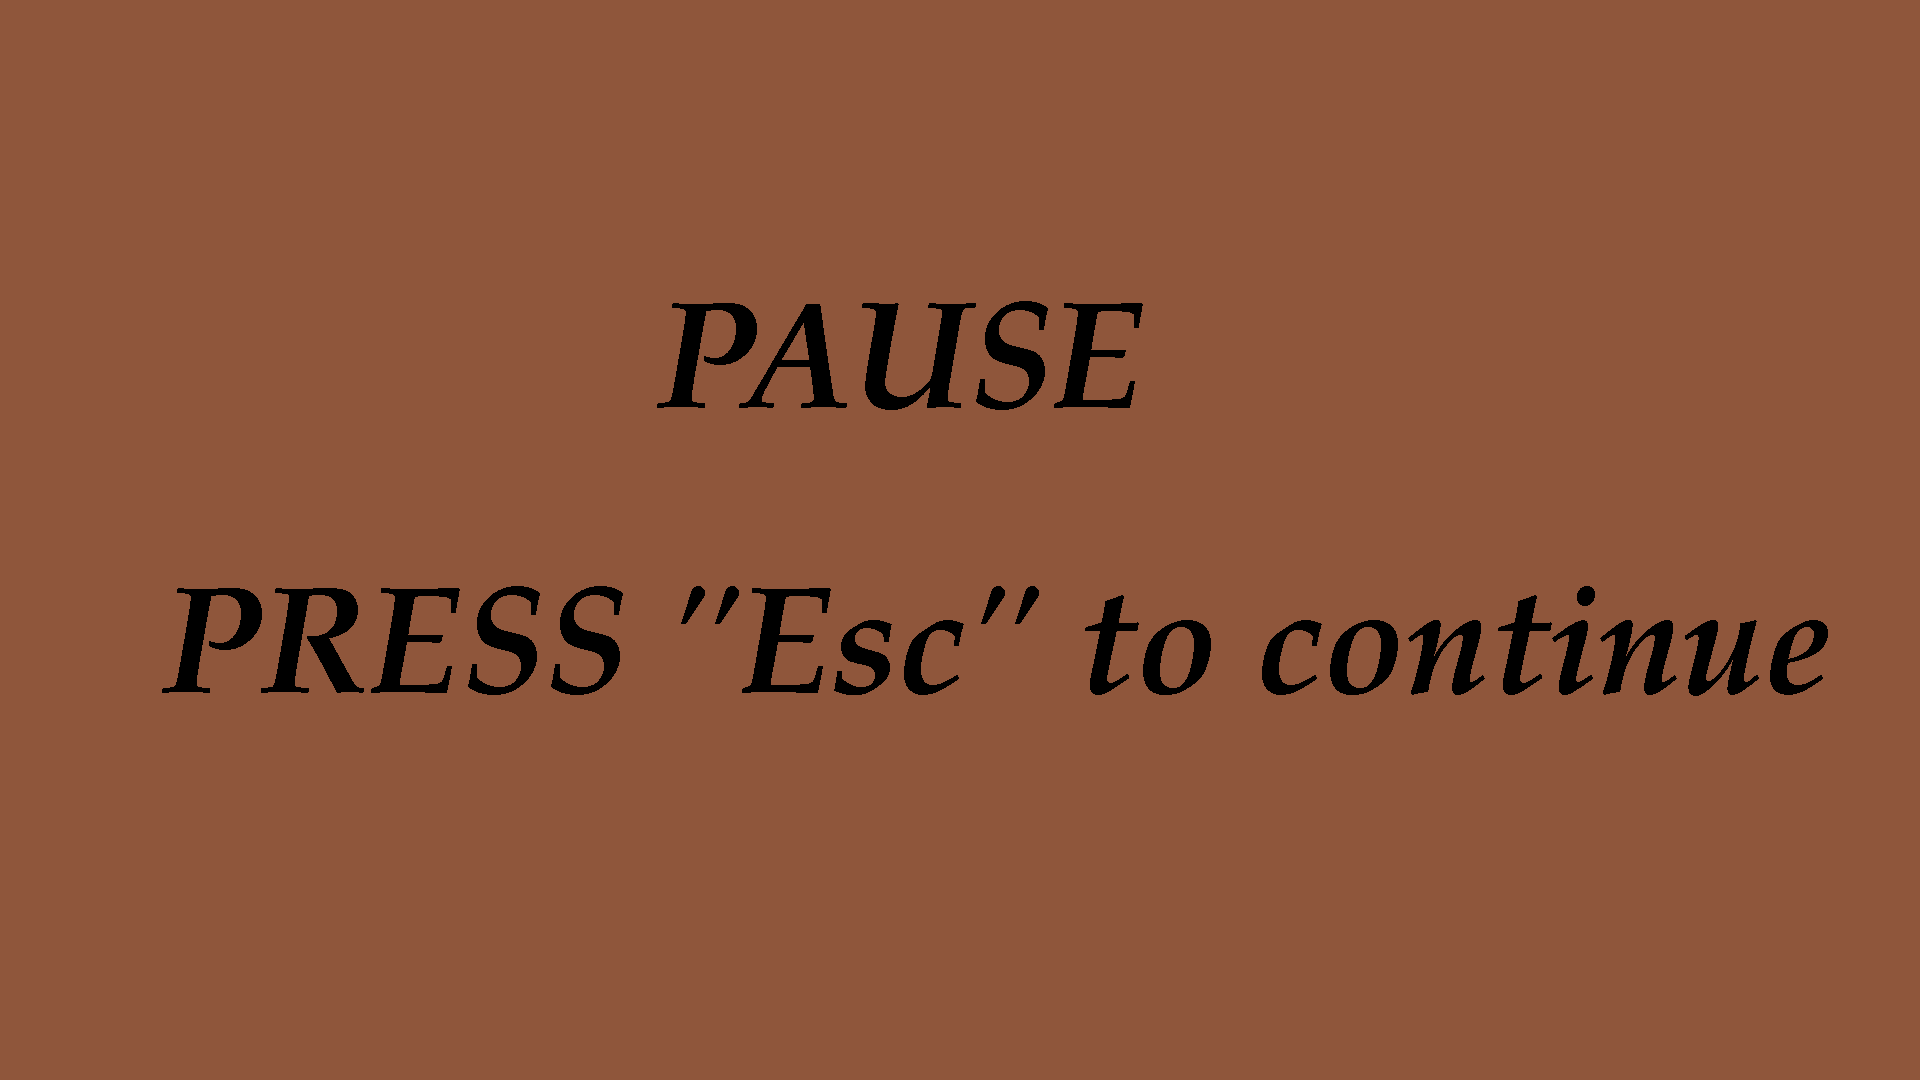
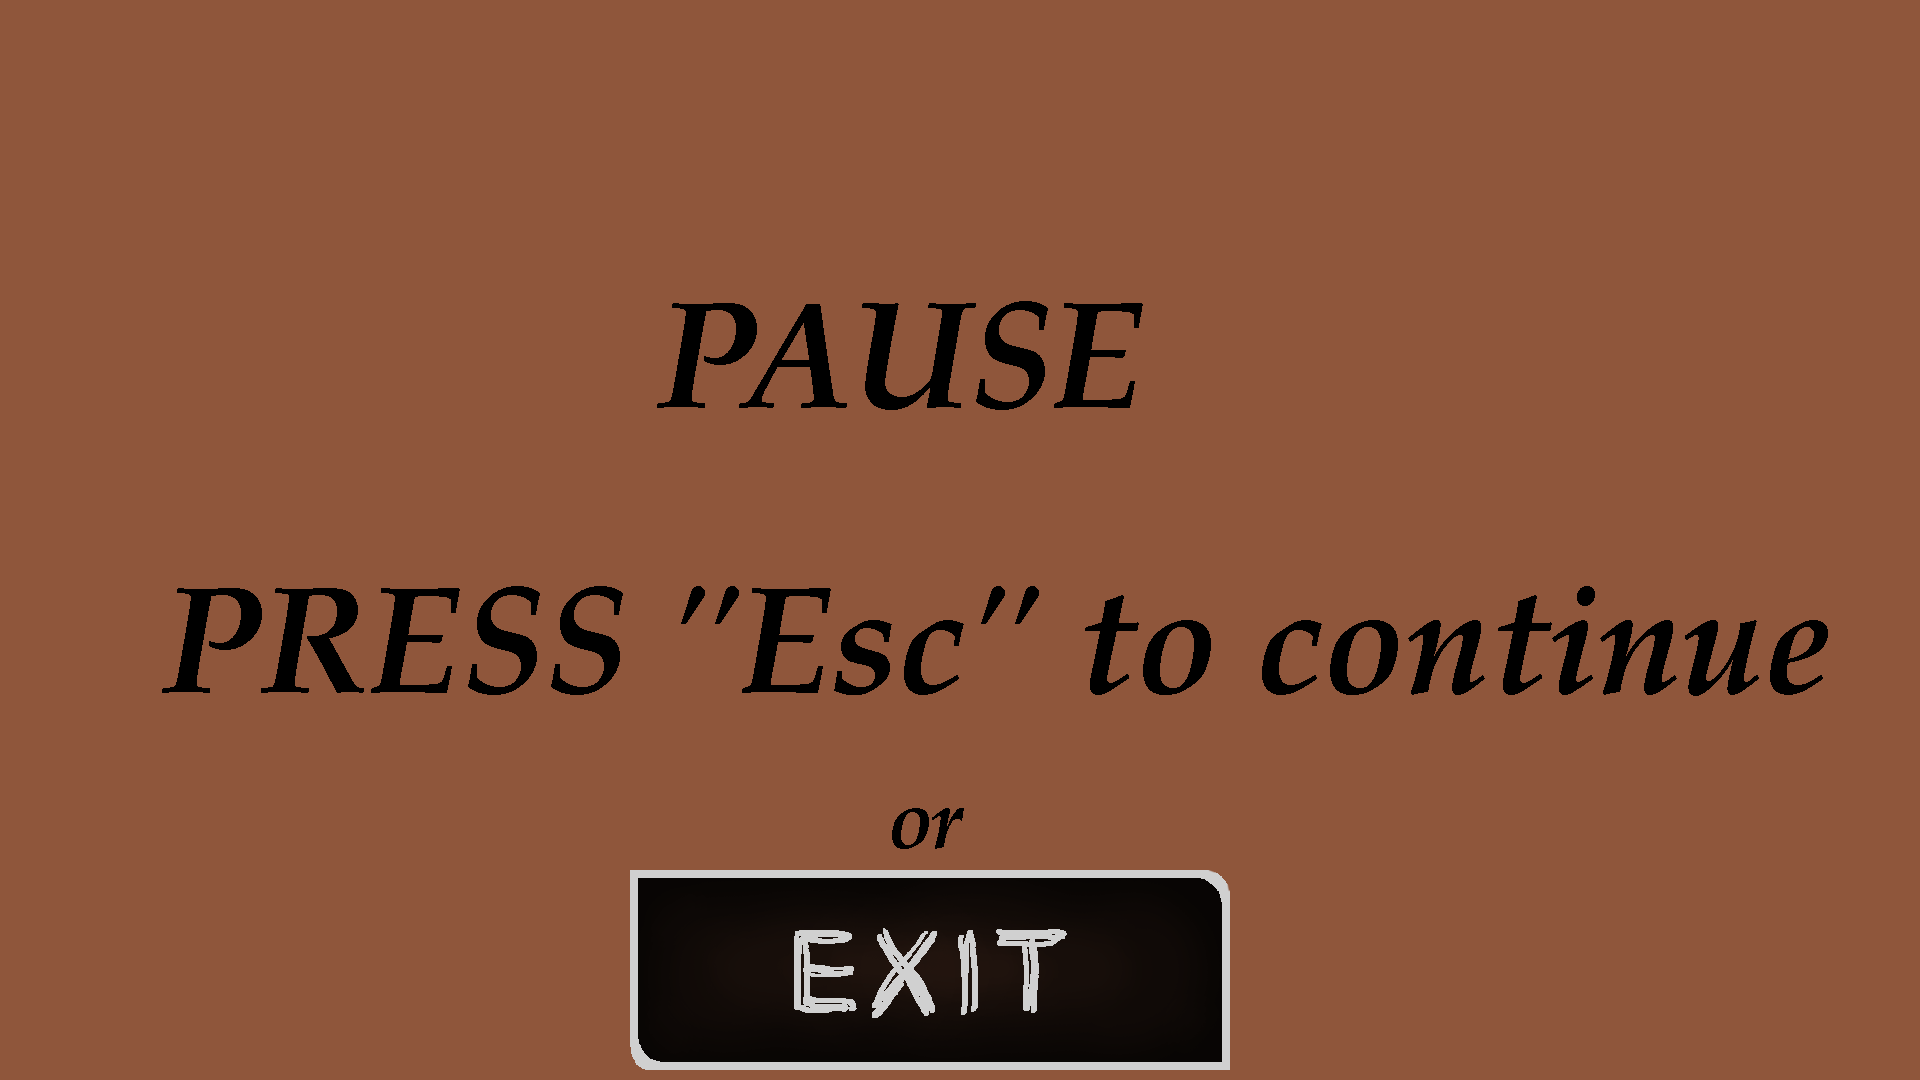
final version of it

Changed region(s): [[0.3125, 0.7333, 0.6562, 1.0]]

diff --git a/room_with_en.py b/room_with_en.py
@@ -62,54 +62,44 @@ def terminate():
 
 
 def start_screen():
-    intro_text = ["ЗАСТАВКА"]
+    pygame.mouse.set_visible(True)
 
     fon = pygame.transform.scale(load_image('fon.png'), (WIDTH, HEIGHT))
     screen.blit(fon, (0, 0))
-    font = pygame.font.Font(None, 30)
-    text_coord = 50
-    for line in intro_text:
-        string_rendered = font.render(line, True, pygame.Color('white'))
-        intro_rect = string_rendered.get_rect()
-        text_coord += 10
-        intro_rect.top = text_coord
-        intro_rect.x = 10
-        text_coord += intro_rect.height
-        screen.blit(string_rendered, intro_rect)
 
-    while True:
+    run = True
+    znach = ''
+
+    while run:
         for event in pygame.event.get():
             if event.type == pygame.QUIT:
                 terminate()
-            elif event.type == pygame.KEYDOWN or \
-                    event.type == pygame.MOUSEBUTTONDOWN:
-                return
+            elif event.type == pygame.MOUSEBUTTONDOWN:
+                x, y = pygame.mouse.get_pos()
+                if 650 <= x <= 1250 and 370 <= y <= 560:
+                    znach = 'play'
+                    run = False
+                elif 650 <= x <= 1250 and 650 <= y <= 840:
+                    znach = 'back'
+                    run = False
+
         pygame.display.flip()
         clock.tick(FPS)
 
+    return znach
+
 
 def end_screen():
-    intro_text = ["КОНЦОВКА"]
-    fon = load_image('fon.png')
+    fon = load_image('end.png')
     screen.blit(fon, (0, 0))
-    font = pygame.font.Font(None, 30)
-    text_coord = 50
-    for line in intro_text:
-        string_rendered = font.render(line, True, pygame.Color('white'))
-        intro_rect = string_rendered.get_rect()
-        text_coord += 10
-        intro_rect.top = text_coord
-        intro_rect.x = 10
-        text_coord += intro_rect.height
-        screen.blit(string_rendered, intro_rect)
 
     while True:
         for event in pygame.event.get():
             if event.type == pygame.QUIT:
                 terminate()
-            elif event.type == pygame.KEYDOWN or \
-                    event.type == pygame.MOUSEBUTTONDOWN:
+            elif event.type == pygame.KEYDOWN or event.type == pygame.MOUSEBUTTONDOWN:
                 return
+
         pygame.display.flip()
         clock.tick(FPS)
 
@@ -512,6 +502,11 @@ def go():
 
                     if event.type == pygame.KEYDOWN and event.key == pygame.K_ESCAPE:
                         pause = pause * -1
+
+                    if event.type == pygame.MOUSEBUTTONDOWN:
+                        x, y = pygame.mouse.get_pos()
+                        if 630 <= x <= 1230 and 870 <= y <= 1070:
+                            return 'exit'
             else:
                 for event in pygame.event.get():
 
@@ -628,6 +623,8 @@ def go():
             win = False
             moved_once = False
 
+    return 'win'
+
 
 game_over = False
 player, level_x, level_y, player_pos = generate_level(level)
@@ -636,7 +633,6 @@ x *= tile_width
 x += 15
 y *= tile_height
 y += 5
-start_screen()
 mon_change_dir = False
 running = True
 pygame.mouse.set_visible(False)

diff --git a/main_one.py b/main_one.py
@@ -1,10 +1,17 @@
+import sys
+
 import room_with_en
 
 
 
 
-room_with_en.go()
-print('done')
+if room_with_en.start_screen() == 'play':
+    if room_with_en.go() == 'win':
+        print('win')
+    elif room_with_en.go() == 'exit':
+        print('exit')
+else:
+    sys.exit()
 #if preview.choise(1) == 'new game':
 #   if flappy_bird.go() == 'win to menu':
 #       preview.choise(2)
